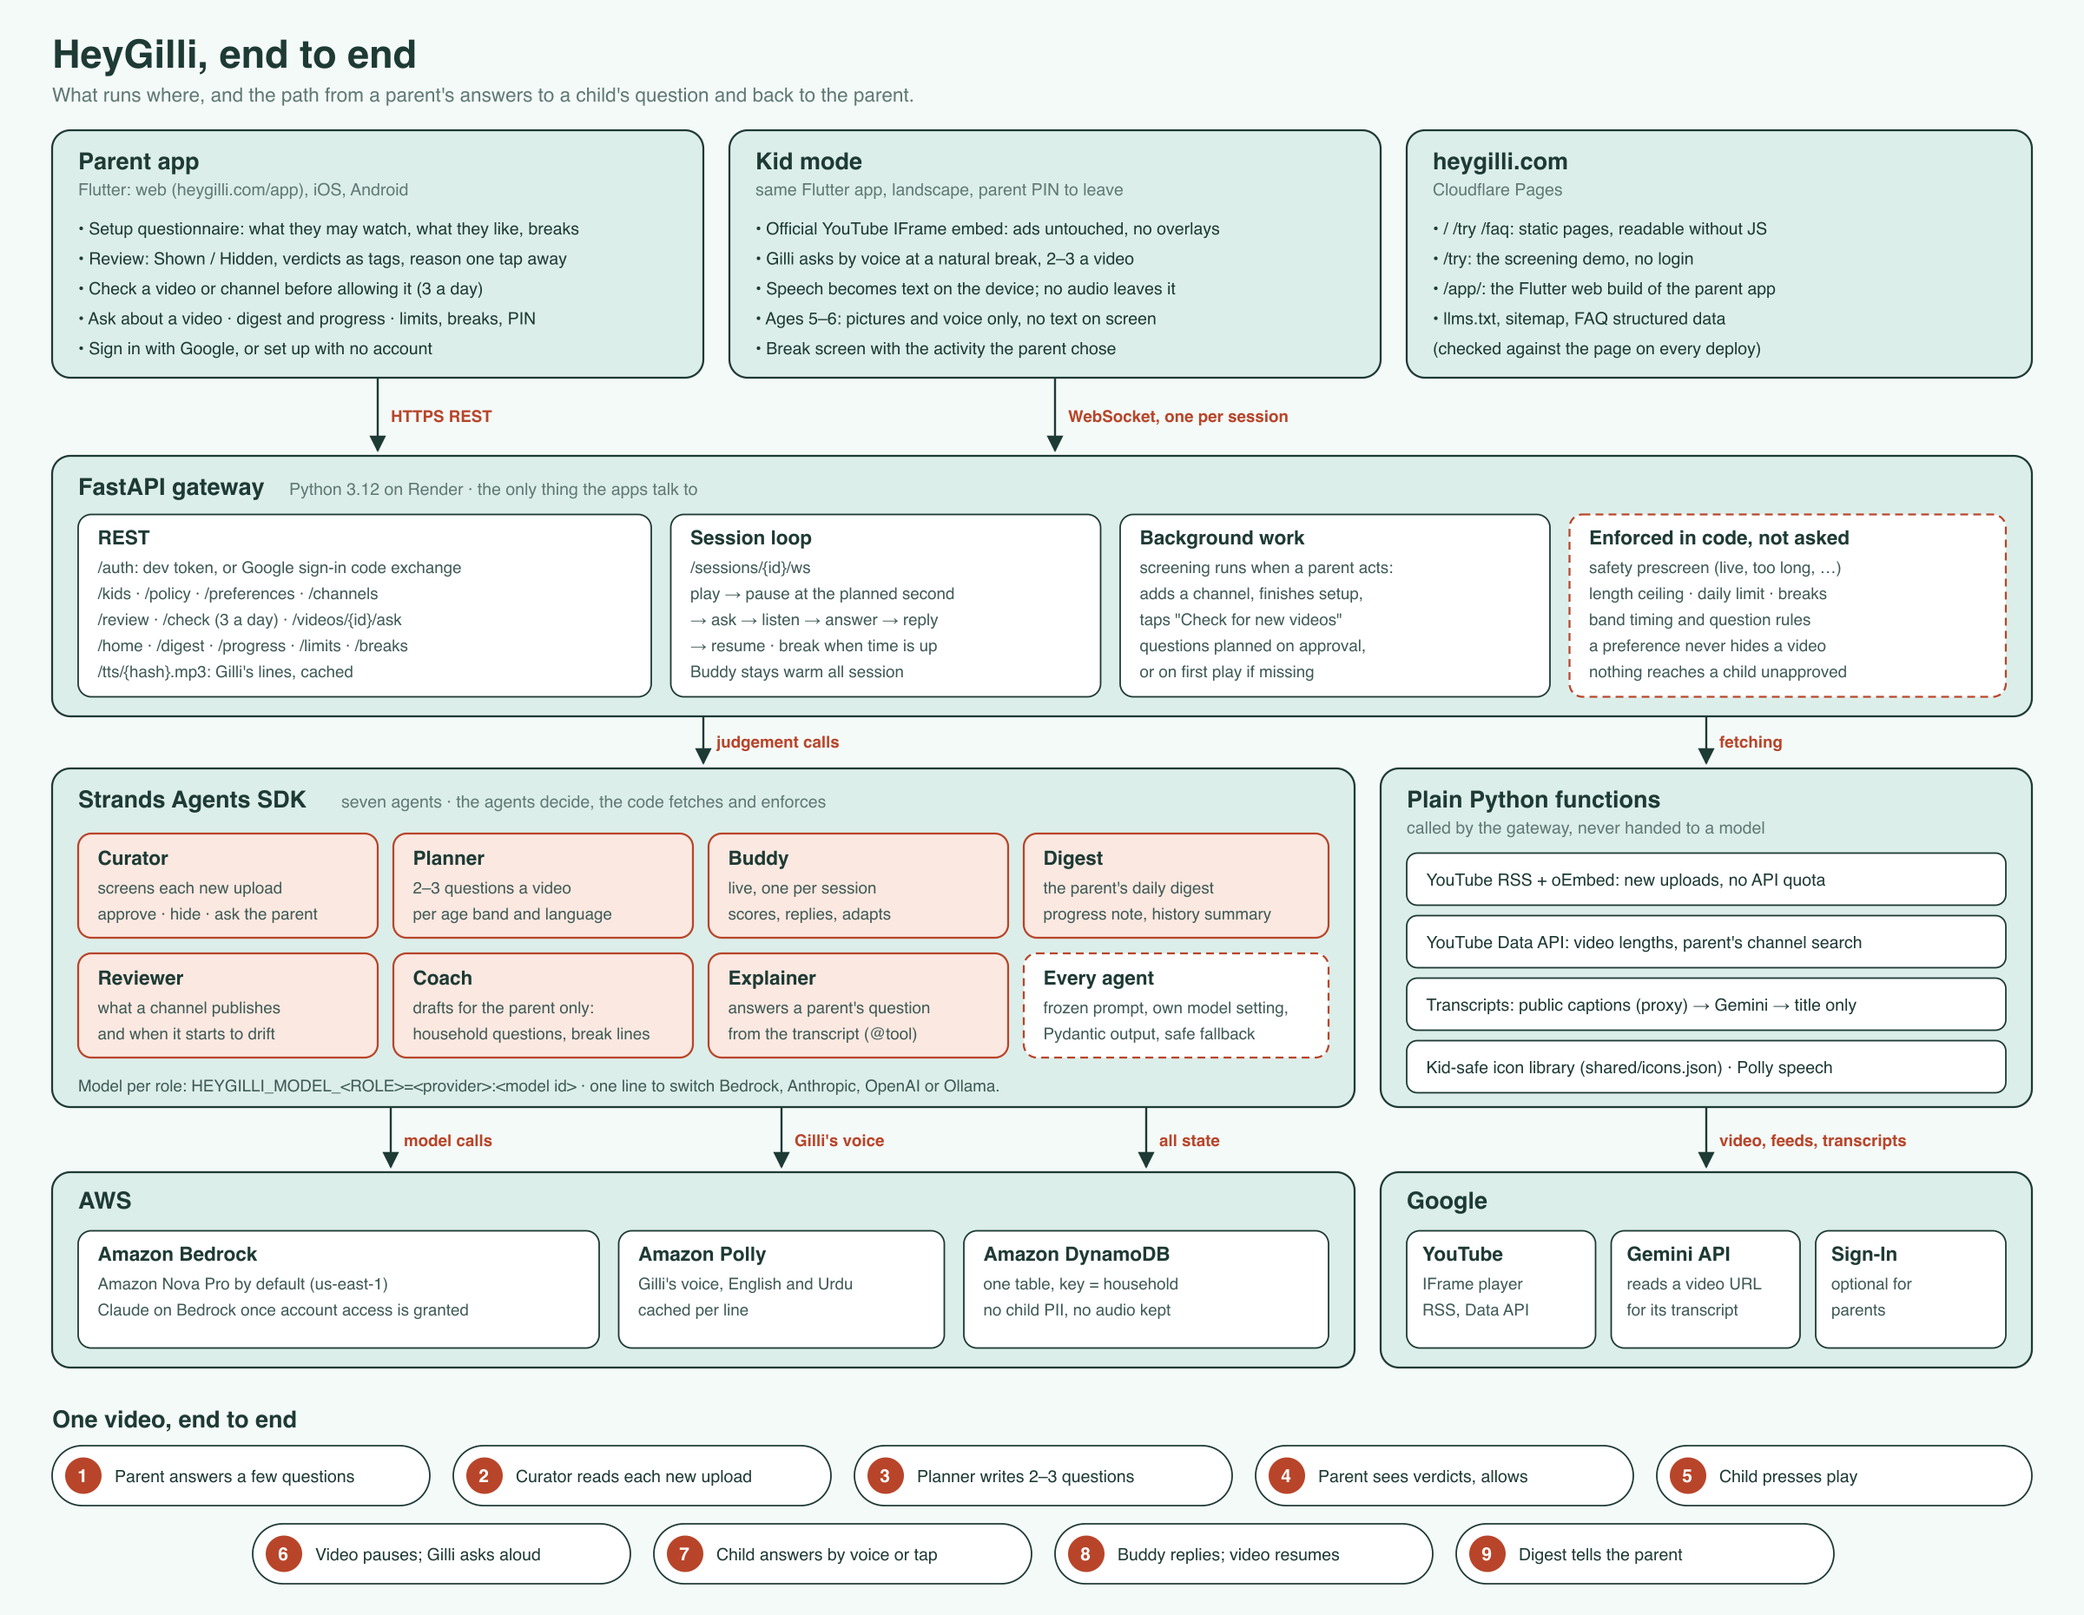
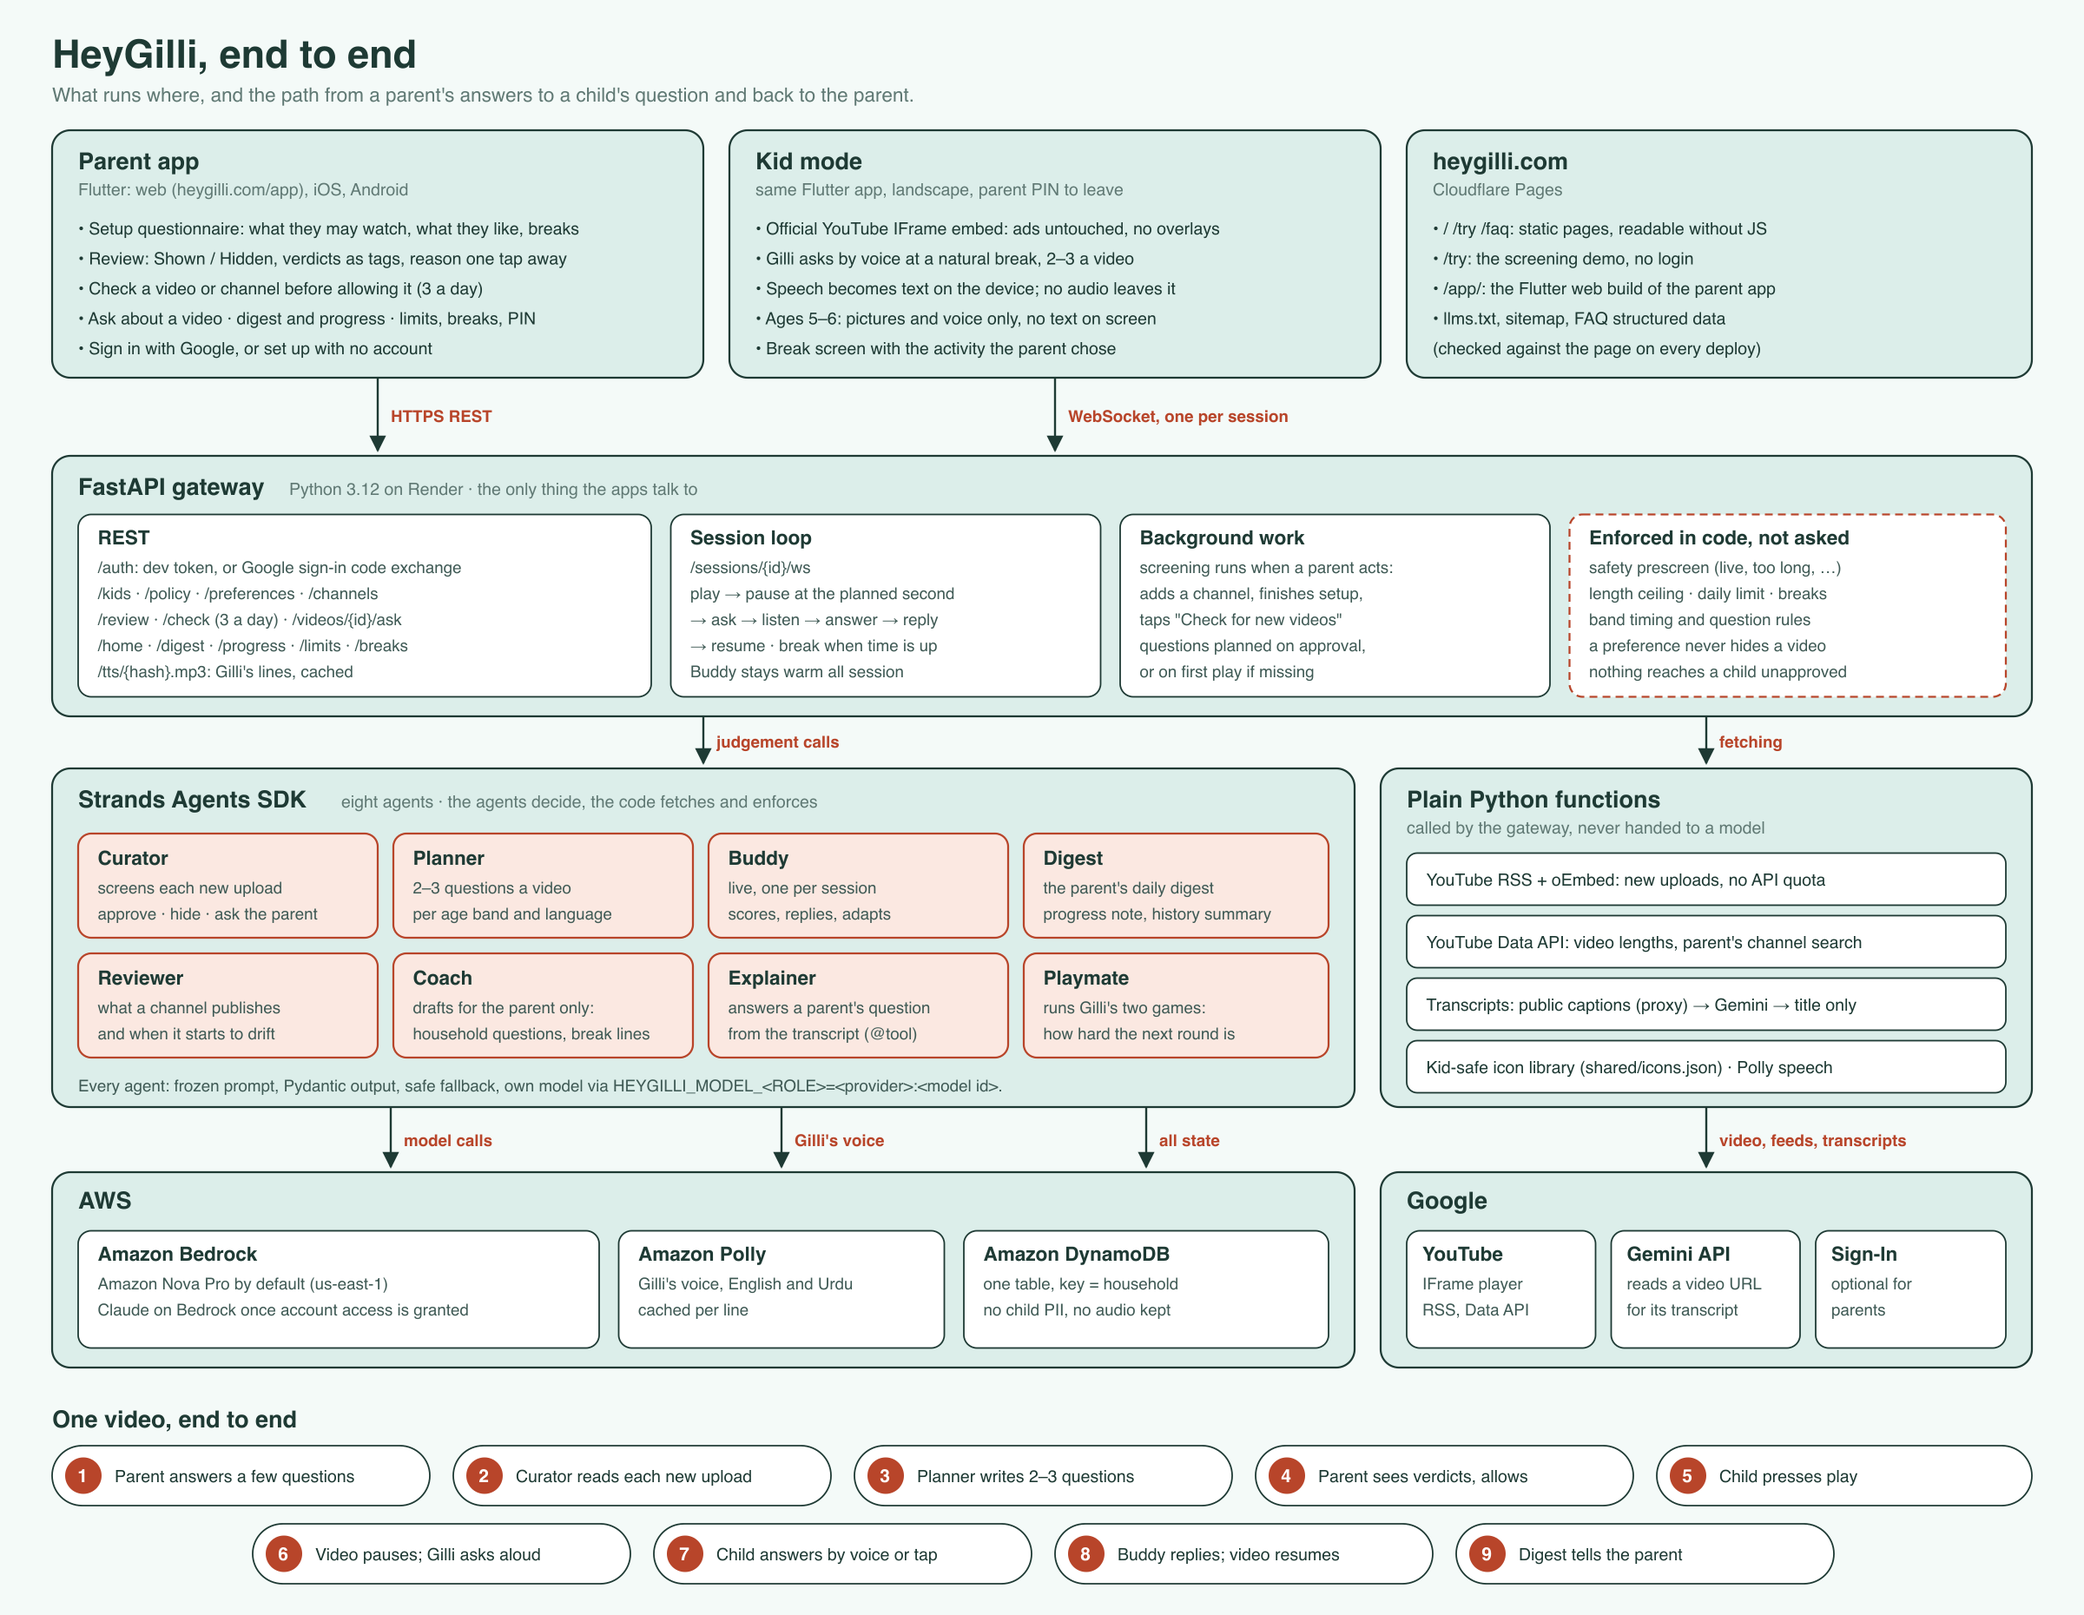
Describe the games, traces, guardrails and eighth agent in the docs
README, PROTOCOL and the Devpost text, and the architecture and who-decides
diagrams redrawn for eight agents.

Changed region(s): [[0.0312, 0.6548, 0.4688, 0.686], [0.4688, 0.5925, 0.6562, 0.6548], [0.25, 0.4677, 0.2812, 0.4989]]

diff --git a/docs/devpost-submission.md b/docs/devpost-submission.md
@@ -44,20 +44,23 @@ HeyGilli is a kid-safe YouTube front end with a co-watching buddy, Gilli the squ
 - **Ask about any video.** "Is the dog hurt in it?" is answered from the video's own transcript, and says so when it cannot tell.
 - **A daily digest** in two lines: minutes, videos, which words a pre-reader said or what an older child understood, and one thing to ask at dinner. A Progress screen shows the week.
 - Daily limits, breaks with an activity the parent chose, a parent PIN to leave kid mode, and a card when an approved channel starts publishing something different. HeyGilli never removes a channel on its own.
+- **See what the agents did.** Every agent call is traced in full, every answer passes guardrails before anyone sees it, and a report lists what was caught and what was fixed.
 
 **For the child**, on a phone, tablet or browser:
 
 - Only videos the parent's rules allowed. No search, no recommendations. Videos play in the official YouTube embed, so ads still play and creators still get paid.
+- The shelf is grouped by channel, each row under the channel's own picture, so a child who cannot read still knows the songs row from the volcano row.
 - At a natural break the video pauses and Gilli asks one question by voice about what just happened. Two or three a video, sized to its length.
 - A 5-year-old answers with one word, by tapping one of three pictures, or yes or no. There is no text on screen for them at all, and Gilli always says the answer word back.
 - A 10-year-old answers in a sentence. Gilli builds on the answer and the video resumes. English or Urdu.
 - Three age bands (5 to 6, 7 to 8, 9 to 12) set the question types, the listening window and Gilli's tone.
+- Between videos Gilli naps on the shelf. A pinch wakes him: a tap, a click, or two fingers squeezed together. The games have their own button: find Gilli hiding behind one of the trees, or catch him as he pops up. The Playmate agent makes each round a little harder or easier from how the last one went, and the games follow the same limits as videos.
 
 Nothing a child says is stored. Only a score and a ten-word paraphrase are kept.
 
 ### How we built it
 
-All agent logic is Python on the **Strands Agents SDK**. There are seven agents, each a Strands `Agent` with a frozen system prompt and its own model setting:
+All agent logic is Python on the **Strands Agents SDK**. There are eight agents, each a Strands `Agent` with a frozen system prompt and its own model setting:
 
 - **Curator**: screens each new upload against the household's answers and the safety rules. Structured output: approve, hide or ask the parent, with short topic and concern tags.
 - **Planner**: writes the questions for each approved video, per age band and language, as a Pydantic `QuestionPlan`. Band and timing rules are enforced in code afterwards.
@@ -66,8 +69,15 @@ All agent logic is Python on the **Strands Agents SDK**. There are seven agents,
 - **Reviewer**: describes what a channel actually publishes, from its feed; also notices when an approved channel drifts.
 - **Coach**: drafts household questions and break lines **for the parent**. Nothing it writes reaches a child until the parent saves it.
 - **Explainer**: answers a parent's question about one video from its transcript, with `@tool` functions to search the transcript and screen the video.
+- **Playmate**: runs Gilli's two games. After each round it decides how hard the next one should be for this child and what Gilli says; the code clamps the numbers per age band, picks where Gilli hides, checks the line, and caps a game at five rounds.
 
 The agents decide; plain code fetches and enforces. Reading transcripts, listing uploads, Polly speech and the length and safety rules are ordinary functions the gateway calls, not tools handed to a model. The Curator-to-Planner hand-off is a typed Python pipeline rather than a Strands Graph, so the Planner never re-parses the Curator's prose and every plan passes the same rule check.
+
+**Every agent call is traced, checked and audited.** All eight agents go through one function, and three things happen there:
+
+- **Full traces.** Each call is a root OpenTelemetry span that Strands' own spans nest under: the agent, each model call with its prompt, answer and token counts, each tool call. The trace is stored with the household's data and can go to any OTLP collector. What a child said is replaced before anything is written.
+- **Guardrails.** Every answer is checked before it is used. Nothing a child hears may contain unsafe words, links or a question about the child; Gilli never says "wrong"; the Curator cannot approve a video whose own title trips a safety rule; the digest cannot claim a child heard a word no question used. A blocked answer goes back to the agent once, saying what was wrong, and a second one falls back to the safe built-in.
+- **Report and fix.** Every call is an event and every violation an incident. After each screening an audit looks back over what the agents already did: it hides approvals that break a safety rule, sends back to the parent the ones that should have been asked about, drops cached questions a child must not hear, and reports any agent whose answers keep ending in the fallback. It never overrules a parent.
 
 The model is a setting: each agent reads `HEYGILLI_MODEL_<ROLE>=<provider>:<model id>`. Production runs on **Amazon Bedrock** (Amazon Nova Pro while Anthropic access on the account is pending); Anthropic, OpenAI and Ollama are one-line alternates with the same code. Every feature falls back to a deterministic built-in when a model call fails.
 
@@ -81,6 +91,8 @@ Around the agents: a **FastAPI** gateway on Render (REST plus one WebSocket per 
 
 **Child speech.** Recognisers are trained on adults. A 5-year-old whispers, mumbles and says "gaffe" for giraffe. The backend scores against the expected word and its variants, partial counts as success for pre-readers, and after two silent turns the questions switch to pictures, which need no speech.
 
+**Trusting an agent after the fact.** A prompt that says "never say wrong" is a request, not a guarantee. Checking every answer in code, sending a bad one back once with the reason, and then auditing what was already done turned "the model usually behaves" into something we can show: each call's full trace, what was caught, and what was fixed.
+
 **A user who cannot read.** Every message to the youngest band omits text entirely. The question is voice, the answer is voice or a tap, and the feedback is Gilli saying the word with a gesture. The pictures come from a fixed library of kid-safe icons, so nothing is generated per video and nothing needs a safety review.
 
 ### Accomplishments that we're proud of
@@ -89,7 +101,7 @@ Around the agents: a **FastAPI** gateway on Render (REST plus one WebSocket per 
 - The agent pings the parent only when a decision is genuinely theirs; everything else it settles alone and shows its reasons.
 - A picture-only path for pre-readers with no text on screen.
 - Playing by YouTube's rules throughout: official embed, ads untouched, no overlays during playback, no downloads.
-- 617 backend tests and 562 client tests, offline.
+- 665 backend tests and 591 client tests, offline.
 
 ### What we learned
 
@@ -108,7 +120,7 @@ Around the agents: a **FastAPI** gateway on Render (REST plus one WebSocket per 
 
 ## Built with
 
-`strands-agents` `python` `fastapi` `websockets` `pydantic` `amazon-bedrock` `amazon-nova` `amazon-polly` `amazon-dynamodb` `flutter` `dart` `youtube-iframe-api` `gemini-api` `render` `cloudflare-pages`
+`strands-agents` `opentelemetry` `python` `fastapi` `websockets` `pydantic` `amazon-bedrock` `amazon-nova` `amazon-polly` `amazon-dynamodb` `flutter` `dart` `youtube-iframe-api` `gemini-api` `render` `cloudflare-pages`
 
 ---
 

diff --git a/README.md b/README.md
@@ -42,7 +42,7 @@ Live against the gateway on an Android emulator, 5 September: the Curator's appr
 
 ## How it is built
 
-**Seven Strands agents** in Python, each an `Agent` with a frozen system prompt and its own model setting:
+**Eight Strands agents** in Python, each an `Agent` with a frozen system prompt and its own model setting:
 
 | Agent | Runs | `@tool` functions it may call | Decides |
 |---|---|---|---|
@@ -53,11 +53,37 @@ Live against the gateway on an Android emulator, 5 September: the Curator's appr
 | Reviewer | per channel on import | `screen_video` | what a channel actually publishes, from its RSS feed alone |
 | Coach | when a parent writes a break line or sets household policy | — | drafts **for the parent**; nothing here can reach a child |
 | Explainer | when a parent asks a question about one video | `search_transcript`, `channel_reputation`, `screen_video` | nothing — it answers from the cached transcript, and says so when there is none |
+| Playmate | per round of one of Gilli's games, between videos | — | how hard the next round is for this child and what Gilli says; the code clamps the numbers per age band, picks where he hides, checks the line and caps the rounds |
 
-`ROLES` in `agents/heygilli_agents/models.py` is exactly those seven, and each takes its own
-`HEYGILLI_MODEL_<ROLE>`. Four further prompts reuse a role's model rather than adding an
-eighth: channel drift runs on `reviewer`, the revisit question on `planner`, and the
+`ROLES` in `agents/heygilli_agents/models.py` is exactly those eight, and each takes its own
+`HEYGILLI_MODEL_<ROLE>`. Four further prompts reuse a role's model rather than adding a
+ninth: channel drift runs on `reviewer`, the revisit question on `planner`, and the
 progress note and watch-history summary on `digest`.
+
+**Traces, guardrails, and the audit.** Every agent call goes through one function,
+`structured()` in `llm.py`, and three things happen there:
+
+- **Full traces.** Each call is a root OpenTelemetry span that Strands' own spans
+  nest under: the agent, each model call with its messages and token counts,
+  each tool call. `tracing.py` stores the whole trace with the household's data
+  (`GET /agents/traces/{id}`), and sends it to any OTLP collector too if
+  `OTEL_EXPORTER_OTLP_ENDPOINT` is set. What a child said is replaced before
+  anything is written.
+- **Guardrails.** `guardrails.py` checks every answer before it is used. Anything
+  a child hears must not contain unsafe words, links, or a question about the
+  child; Gilli never says "wrong"; a paraphrase stays under ten words; the
+  Curator cannot approve a video whose own title trips a safety rule; a digest
+  cannot claim a child heard a word no question used. A blocked answer goes back
+  to the agent once, saying what was wrong. A second one falls back to the
+  caller's safe built-in.
+- **Report and fix.** Every call is an event and every violation an incident
+  (`agent_audit.py`). After each screening run, and on `POST /agents/audit`, an
+  audit looks back over what the agents already did. It hides approvals that
+  break a safety rule, sends back to the parent approvals that should have been
+  asked about, drops cached questions a child must not hear, and reports any
+  agent whose answers keep ending in the fallback. It never touches a parent's
+  own decision. `GET /agents/report` is the per-household view; `GET /ops/agents`
+  the operator's, behind `HEYGILLI_OPS_TOKEN`.
 
 Everything else the pipeline needs — reading a transcript, listing a channel's uploads,
 Polly speech, notifying a parent — is a plain function the gateway calls in code, not a

diff --git a/docs/PROTOCOL.md b/docs/PROTOCOL.md
@@ -31,10 +31,22 @@ POST /kids                     {nickname, age, languages[]}   → Kid
 GET  /kids                                                    → Kid[]
 POST /kids/{kid_id}/channels   {url}                          → Channel   (url = channel URL, @handle URL, or video URL; server resolves)
 GET  /kids/{kid_id}/channels                                  → Channel[]
-GET  /kids/{kid_id}/home                                      → {rows: [{title, videos: Video[]}],
+GET  /kids/{kid_id}/home                                      → {rows: [{title, channel_id, thumb_url, videos: Video[]}],
+                                                                 (one row per channel, newest upload first;
+                                                                 videos from channels not on the list last),
                                                                  watching_allowed, blocked_reason,
                                                                  active_break: BreakPeriod | null}
 POST /kids/{kid_id}/videos/{video_id}/ask  {question, history?: [[q,a]]}  → {answer, answered_from}
+POST /kids/{kid_id}/play       {game: "find"|"catch", rounds: [{round, won, taps, caught, level}]}
+                                                              → PlayTurn {game, round, done, level, trees, spot, peek,
+                                                                 pops, show_ms, line, tts_url, rounds_left_today, decided_by}
+                                                                 (Playmate agent picks level + line; code clamps per band,
+                                                                 picks the spot, 5 rounds a game, 40 a day; 409 like watching)
+GET  /agents/report?days=7&kid_id=                            → {calls, agents: {role: {calls, ok, warned, fixed, blocked,
+                                                                 model_error, avg_ms}}, incidents: [...], recent: [...]}
+POST /agents/audit                                            → {fixed: Incident[], report}   (find and fix wrong agent actions)
+GET  /agents/traces/{trace_id}                                → the full trace: every span, prompt, answer, tokens
+GET  /ops/agents               header X-Ops-Token             → every household's incidents   (404 without HEYGILLI_OPS_TOKEN)
 POST /sessions                 {kid_id, video_id, device}     → {session_id, video: Video, plan_ready: bool}
 POST /sessions/{id}/end                                       → {ok: true}
 GET  /kids/{kid_id}/digest?date=YYYY-MM-DD                    → Digest
